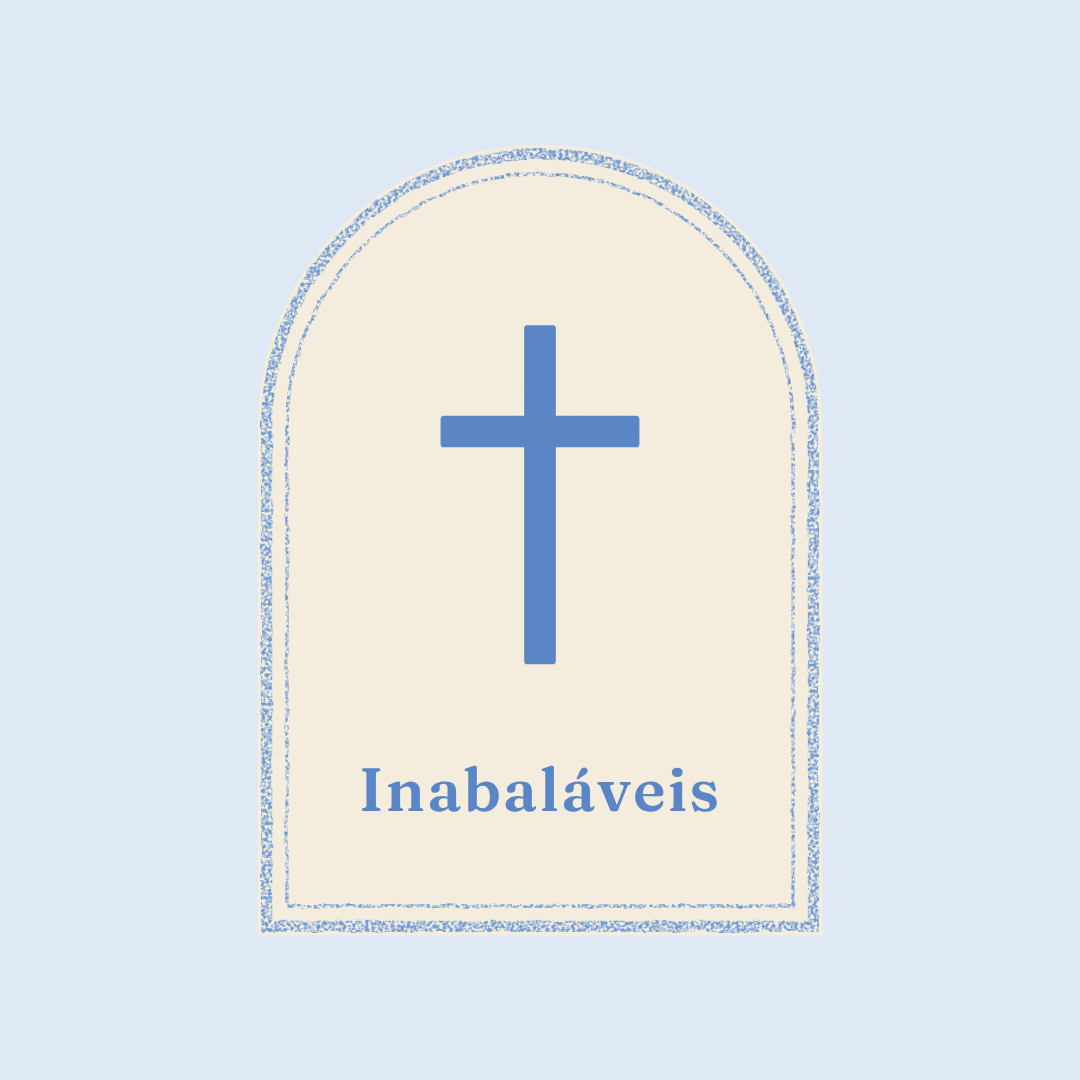
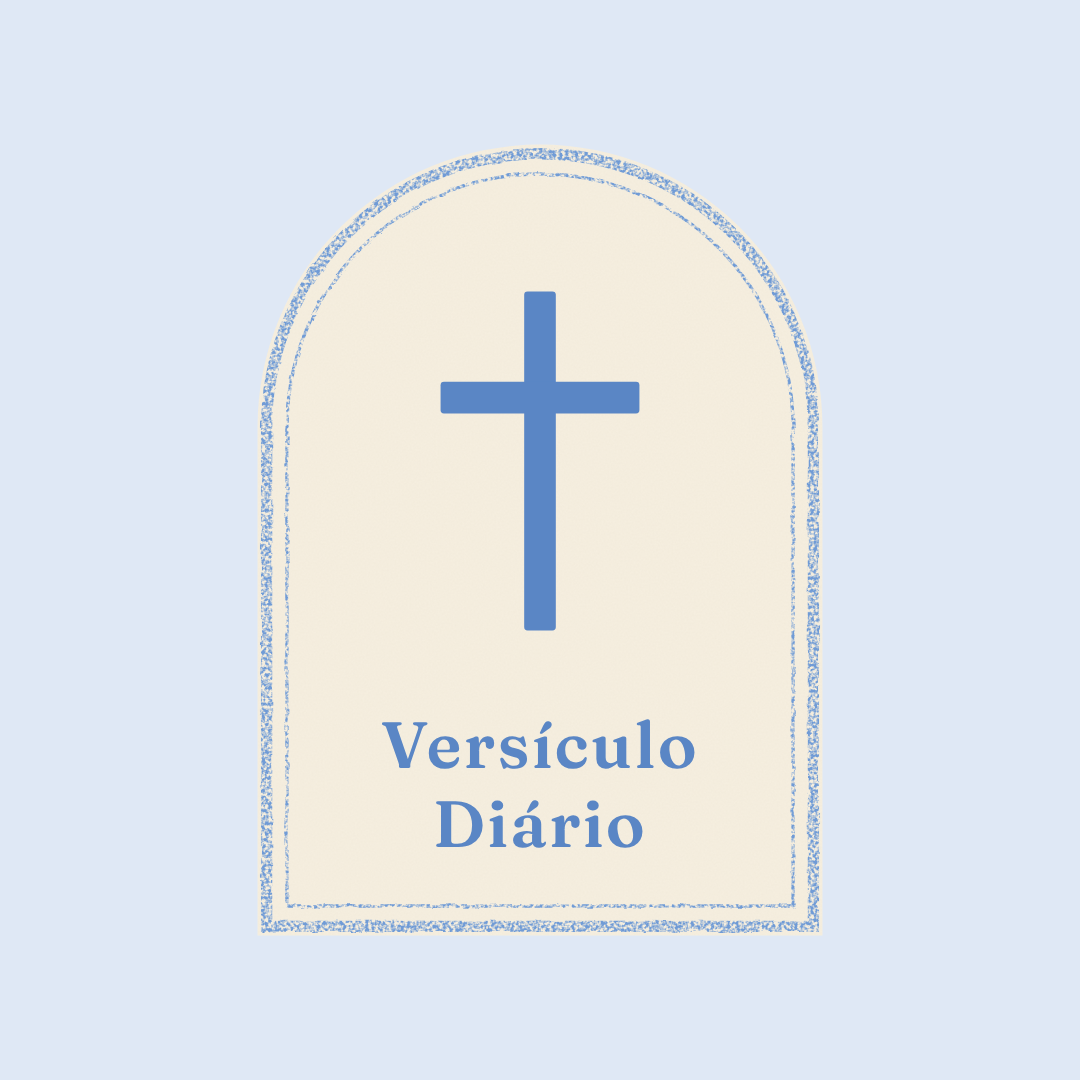
Nome do perfil: Versículo Diário (site e foto de perfil)
Claude-Session: https://claude.ai/code/session_01RQ8SWNy9BnEUDaH4HkHbNt

diff --git a/index.html b/index.html
@@ -4,7 +4,7 @@
 <meta charset="utf-8">
 <meta name="viewport" content="width=device-width, initial-scale=1">
 <meta name="robots" content="noindex">
-<title>Inabaláveis — vídeos para postar</title>
+<title>Versículo Diário — vídeos para postar</title>
 <link rel="icon" href="perfil.png"><link rel="apple-touch-icon" href="perfil.png">
 <style>
   @font-face { font-family: "Fraunces"; font-weight: 600; src: url("producao/fontes/fraunces-latin-600.woff2") format("woff2"); }
@@ -33,7 +33,7 @@
 </style>
 </head>
 <body><div class="w">
-<header><img src="perfil.png" alt=""><div><h1>Inabaláveis</h1><div class="sub">Vídeos para postar · <span id="qtd">14</span> na fila</div></div></header>
+<header><img src="perfil.png" alt=""><div><h1>Versículo Diário</h1><div class="sub">Vídeos para postar · <span id="qtd">14</span> na fila</div></div></header>
 
 <article id="001-ezequiel-18-4"><div class="n">1</div><div class="c">
  <h2>Ezequiel 18:4</h2>

diff --git a/producao/arte/perfil.html b/producao/arte/perfil.html
@@ -25,6 +25,6 @@ svg{position:absolute;inset:0}
   <path d="M316,874 L316,450 A224,224 0 0 1 764,450 L764,874 Z" stroke-width="3"/>
  </g>
  <!-- cruz simples -->
- <g fill="#5a86c5"><rect x="526" y="360" width="28" height="300" rx="3"/><rect x="452" y="440" width="176" height="28" rx="3"/></g>
- <text x="540" y="790" text-anchor="middle" font-family="Fraunces" font-weight="600" font-size="54" fill="#5a86c5" letter-spacing="2">Inabaláveis</text>
+ <g fill="#5a86c5"><rect x="526" y="330" width="28" height="300" rx="3"/><rect x="452" y="410" width="176" height="28" rx="3"/></g>
+ <text text-anchor="middle" font-family="Fraunces" font-weight="600" fill="#5a86c5" letter-spacing="2"><tspan x="540" y="752" font-size="58">Versículo</tspan><tspan x="540" y="822" font-size="58">Diário</tspan></text>
 </svg></body></html>

diff --git a/producao/scripts/gerar_site.py b/producao/scripts/gerar_site.py
@@ -3,7 +3,7 @@ import html, json, os, glob, re
 AQUI = os.path.dirname(os.path.abspath(__file__))
 RAIZ = os.path.abspath(os.path.join(AQUI, "..", ".."))
 REPO = "marcopmloa-commits/versiculo-do-dia"
-NOME = "Inabaláveis"
+NOME = "Versículo Diário"
 
 def gerar():
     itens = []

diff --git a/README.md b/README.md
@@ -31,4 +31,4 @@ Gera vídeos verticais (1080x1920, formato TikTok). Cada vídeo traz o versícul
 No site, o botão "Já postei" tira o vídeo da lista e abre uma issue `postado: NNN-nome` no GitHub. Ao tocar em **Create**, o workflow `.github/workflows/ja-postei.yml` apaga `videos/NNN.mp4`/`.jpg`, anota o nome em `postados.txt` (assim o `gerar.py` não recria esse vídeo) e atualiza o `index.html`. Só issues abertas pelo dono do repositório disparam a remoção.
 
 ## Perfil
-Nome: **Inabaláveis**. A foto de perfil é `perfil.png`, gerada a partir de `producao/arte/perfil.html`.
+Nome: **Versículo Diário**. A foto de perfil é `perfil.png`, gerada a partir de `producao/arte/perfil.html`.
